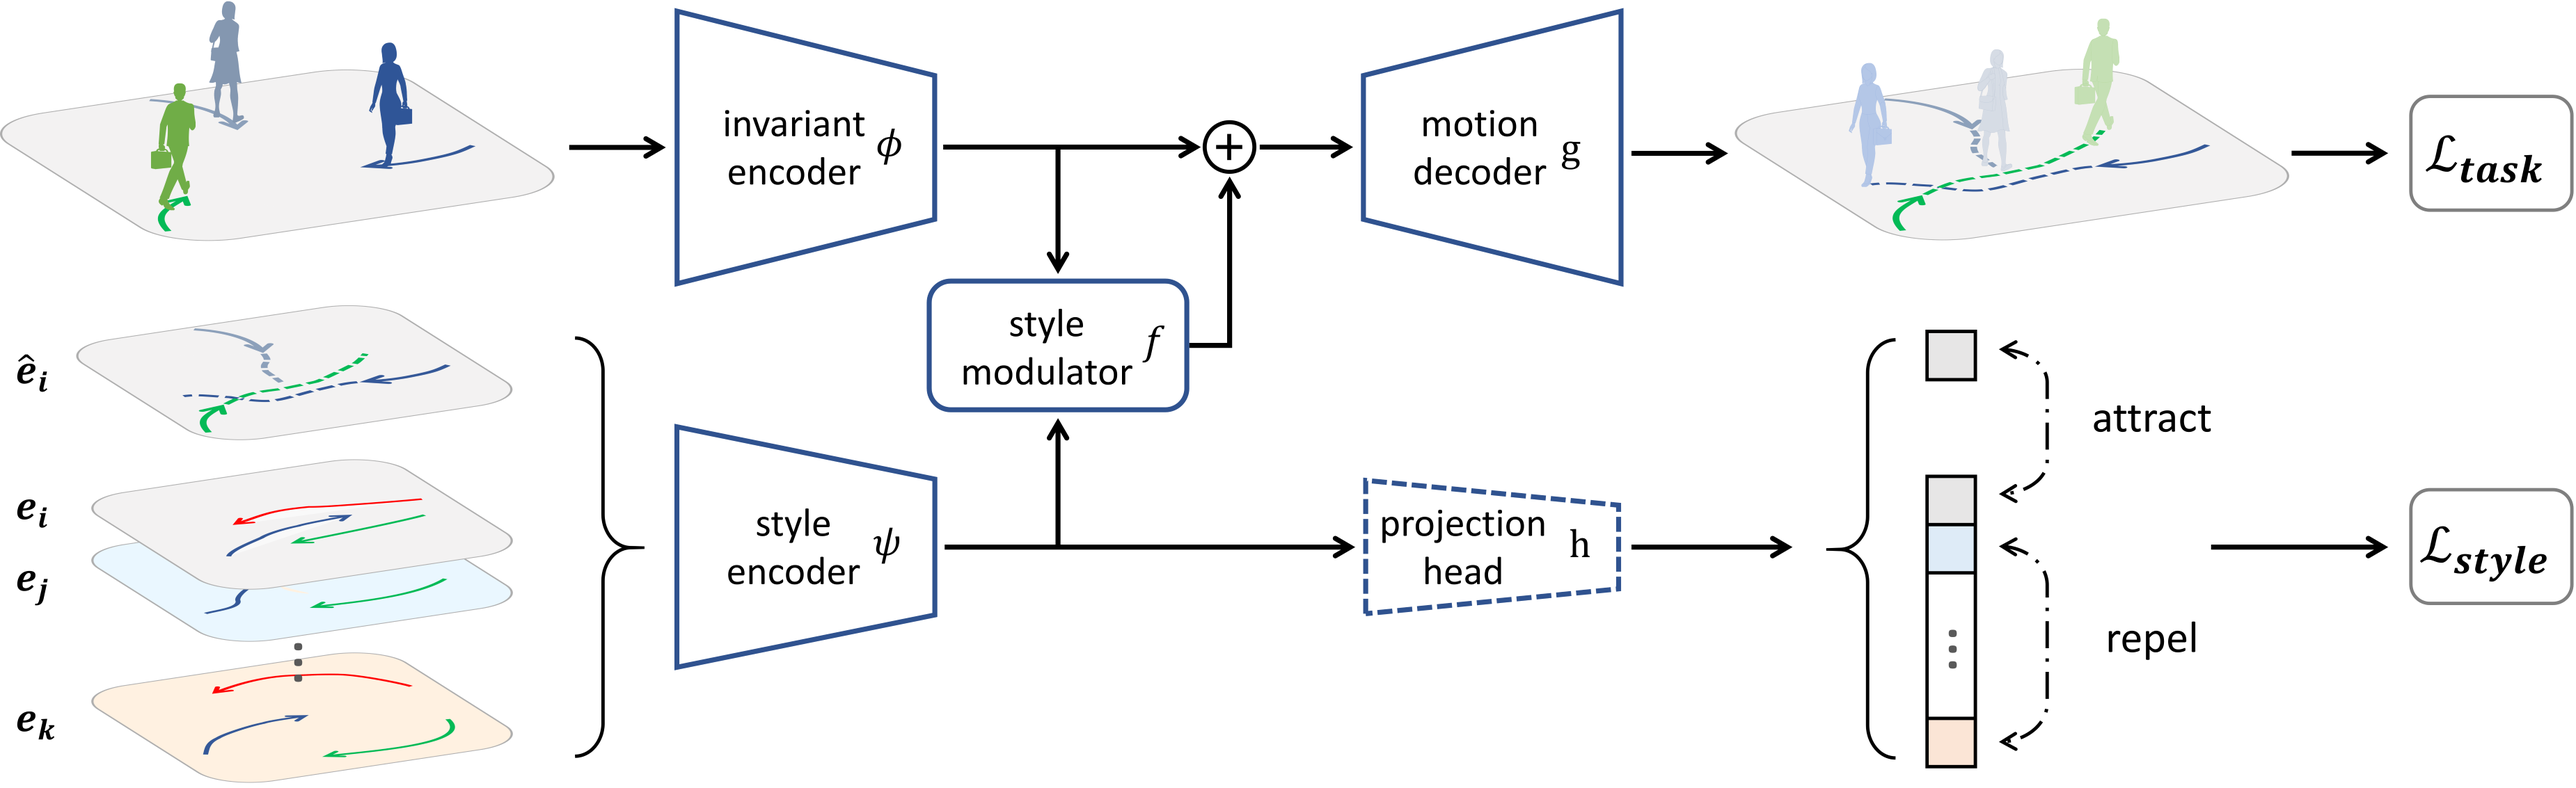
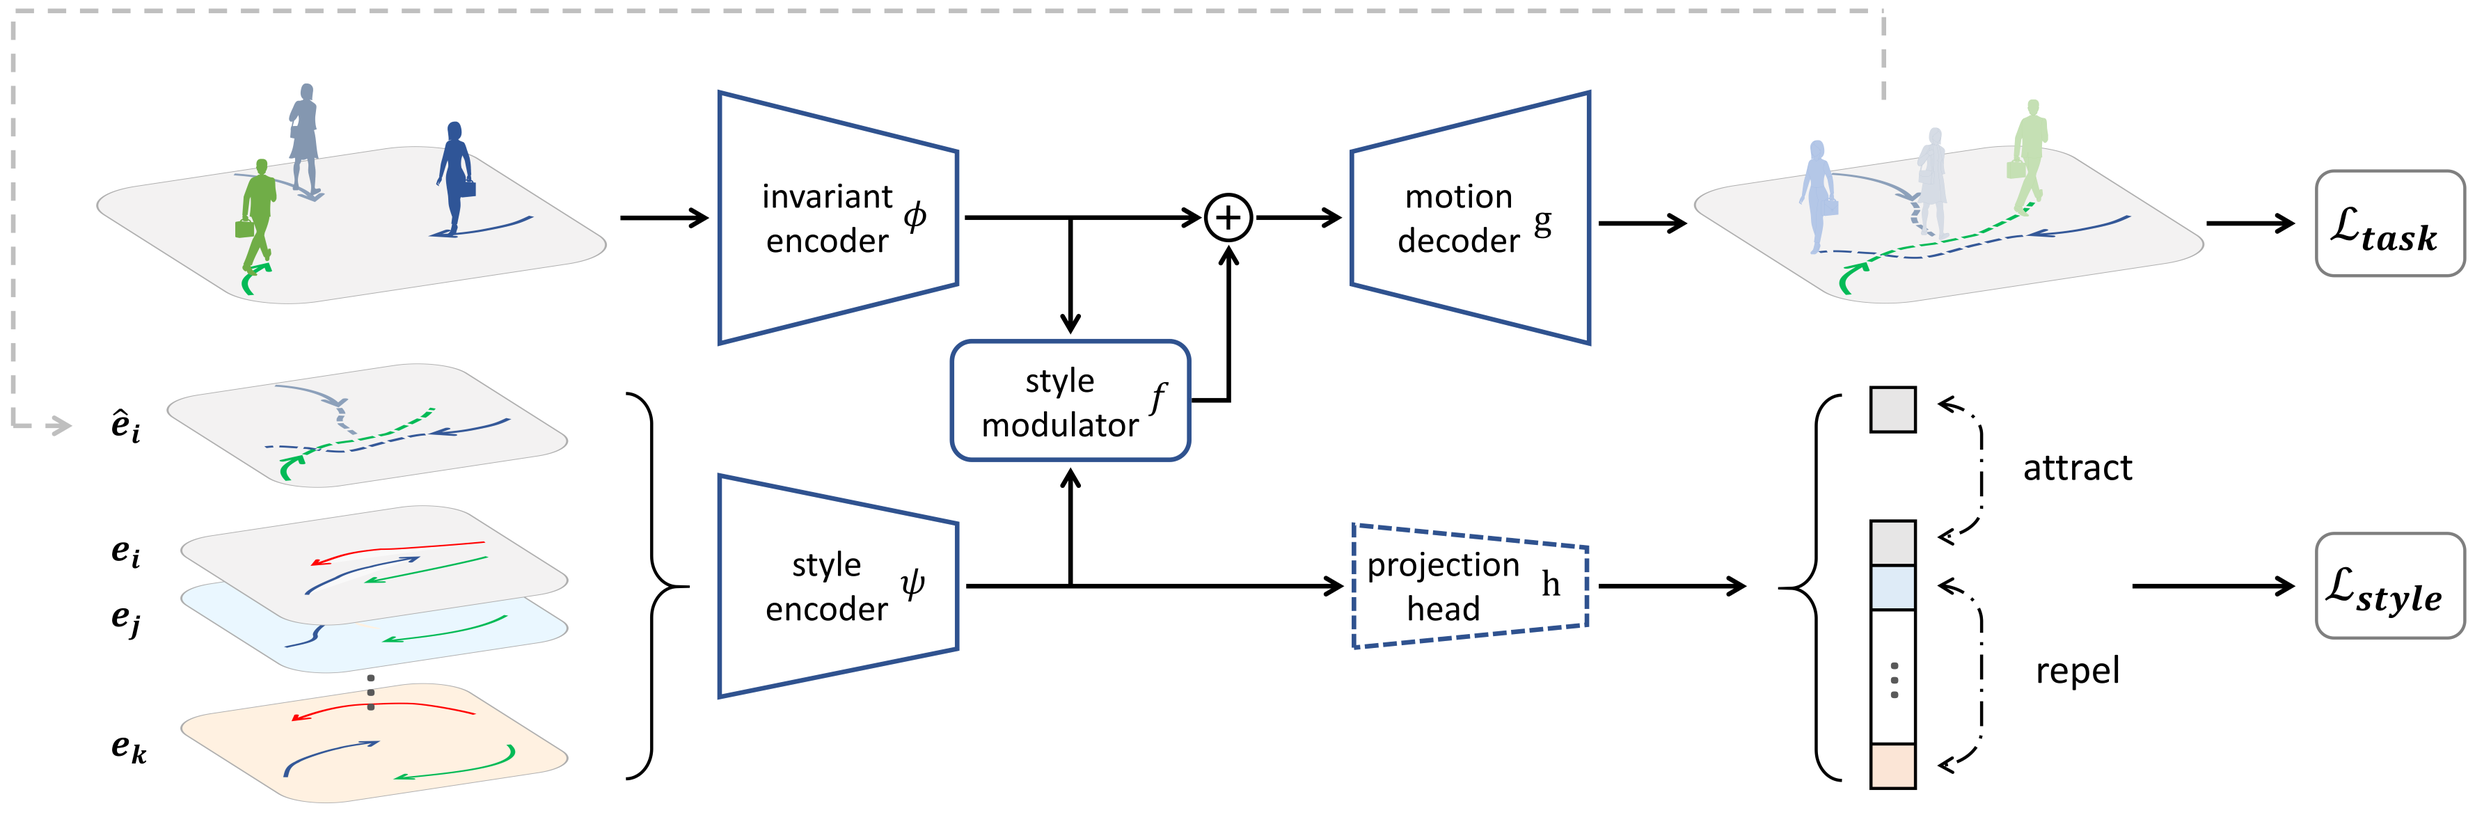
Update Readme

diff --git a/README.md b/README.md
@@ -1,4 +1,10 @@
-# Causal Motion Forecasting
+# Motion Forecasting under Distribution Shifts
+
+**[`Paper`](https://arxiv.org/abs/2111.14820) | [`Video`](https://drive.google.com/file/d/1Uo0Y0eHq4vI7wOxya4mJlxbAe3U4kMx6/view) | [`Adaptive Y-net`](https://github.com/sherwinbahmani/ynet_adaptive)**
+
+<p align="center">
+  <img src="docs/shift.png" width="480">
+</p>
 
 This is an official implementation for the paper
 
@@ -14,22 +20,28 @@ This is an official implementation for the paper
 <br>
 École Polytechnique Fédérale de Lausanne (EPFL)
 
-Links: **[`Arxiv 11/2021`](https://arxiv.org/abs/2111.14820) | [`Video (7 min)`](https://drive.google.com/file/d/1Uo0Y0eHq4vI7wOxya4mJlxbAe3U4kMx6/view) | [`Adaptive Y-net`](https://github.com/sherwinbahmani/ynet_adaptive)**
-
-TL;DR: incorporate causal *invariance* and *structure* into the design and training of forecasting models in order to improve the *robustness* and *reusability* of the learned motion representations
+TL;DR: incorporate causal *invariance* and *structure* into the design and training of forecasting models to improve the *robustness* and *reusability* of the learned motion representations under common distribution shifts
 * causal formalism of motion forecasting with three groups of latent variables
 * causal (invariant) representations to suppress spurious features and promote robust generalization
 * causal (modular) structure to approximate a sparse causal graph and facilitate efficient adaptation
 
-<p align="left">
-  <img src="docs/overview.png" width="800">
-</p>
-
 ### Spurious Shifts
+
+In the context of motion forecasting, the target trajectory is often correlated with some spurious features, such as observation noises and agent densities. Yet, such correlations are brittle and lead to poor robustness under spurious shifts. We simulate this effect in a controlled setting and demonstrate that models trained to perform equally well across training environments tend to suppress spurious features and generalize better.
+
+<p align="center">
+  <img src="docs/spurious.png" width="800">
+</p>
 
 Please check out the code in the [spurious](spurious) folder.
 
 ### Style Shifts
+
+One unique property of motion problems is that behavioral styles may naturally vary from one environment to another. To explicitly model this, we design a modular architecture that factorizes the representations of invariant features and style confounders. We train the style encoder with a contrastive loss, which allows for effective use of the structured knowledge during both training and deployment.
+
+<p align="center">
+  <img src="docs/overview.png" width="800">
+</p>
 
 Please check out the code in the [style](style) folder.
 

diff --git a/style/README.md b/style/README.md
@@ -20,29 +20,31 @@ Synthetic data (`v4`) generated by ORCA can be downloaded [here](https://drive.g
 
 --- 
 
-### Pre-Training
+### Training
 
-Train Baseline or our modular architecture with Empirical Risk Minimization (ERM) or Invariant Risk Minimization (IRM).
+Train baseline or our modular architecture.
 ```
-bash scripts/pretrain.sh
+bash scripts/train.sh
 ```
 
 Pretrained models on dataset `v4` for all the methods with seed=1,2,3,4,5 are already saved in `/models/v4/pretrain/`.
 
-Evaluate pretrained model.
+### Zero-shot Generalization
+
+Evaluate pretrained models on different domains, including both in-distribution and out-of-distribution settings.
 ```
-bash scripts/evaluate_pretrain.sh
+bash scripts/evaluate_generalization.sh
 ```
 Save all the quantitative results in `results/{dataset_name}/pretrain/summary.csv`.
 ```
-bash scripts/extract_pretrain.sh
+bash scripts/extract_generalization.sh
 ```
 
 --- 
 
-### Finetune
+### Low-shot Adaptation
 
-Finetune Baseline or our modular architecture with Empirical Risk Minimization (ERM) on few samples of a new environment.
+Adapt pre-trained model to new domains in the low-shot setting.
 ```
 bash scripts/finetune.sh
 ```
@@ -51,19 +53,19 @@ Finetuned models on dataset `v4` for all the methods with seed=1,2,3,4,5 are alr
 
 Evaluate finetuned model.
 ```
-bash scripts/evaluate_finetune.sh
+bash scripts/evaluate_adaptation.sh
 ```
 
 Save all the quantitative results in `results/{dataset_name}/finetune/summary.csv`.
 ```
-bash scripts/extract_finetune.sh
+bash scripts/extract_adaptation.sh
 ```
 
 ---
 
 
 ### Refinement
-Test Time refinement of the predictions on the fly. Instead of simply evaluating the ADE of the predictions, we optimize the latent space to make the prediction's style more similar to the style of the env (using contrastive loss)
+Test-time refinement of the predictions on the fly. Instead of simply evaluating the ADE of the predictions, we optimize the latent space to make the prediction's style more similar to the style of the env (using contrastive loss)
 ```
 bash scripts/refine.sh
 ```
